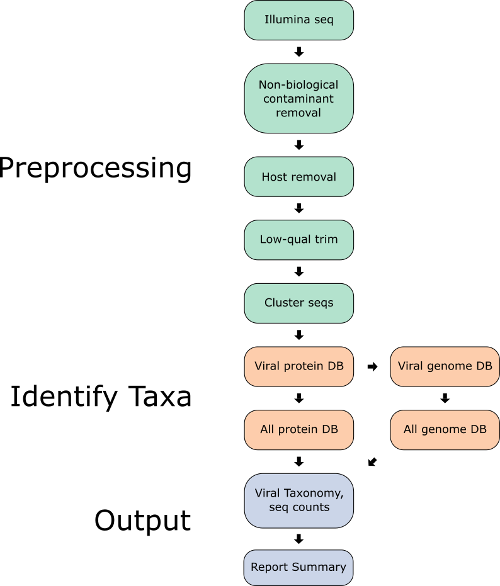
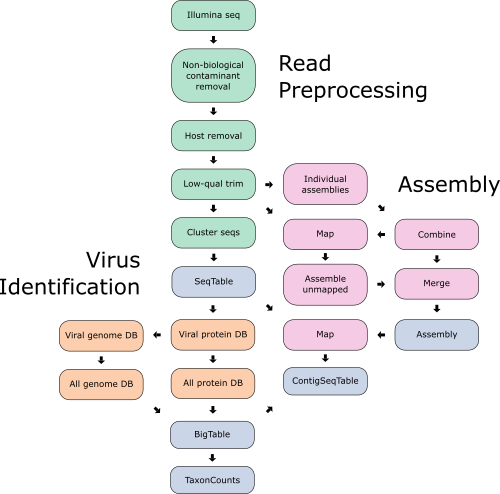
Update documentation, version, automatically generate report after successful hecatomb run.

diff --git a/docs/index.md b/docs/index.md
@@ -27,6 +27,8 @@ viruses in their metagenome samples.
 
 ## Pipeline overview
 
+The pipeline consists of three main sections: Read preprocessing, Virus identification, and Assembly.
+
 ![](img/hecatombPipeline.png)
 
 ### Preprocessing
@@ -86,51 +88,60 @@ First, individual [MEGAHIT](https://github.com/voutcn/megahit) assemblies are pr
 The reads are then mapped to the combined assemblies and any unmapped reads undergo another round of assembly.
 All contigs are then combined and merged into a non-redundant set of contigs.
 
+The assembly contigs are directly annotated with MMSeqs.
+The assembly is also subject to a pseudo consensus annotation approach whereby the SeqTable sequences are mapped and their
+Taxonomic assignments in the BigTable are combined with the read mapping information.
+We find this useful with investigating contigs of interest.
+
 ## File outputs
 
 The pipeline outputs a number of files for further analysis and exploration, as well as to provide an overview of the 
 read preprocessing and distribution.
 
-### report.html
+### Report
+
+`report.html`
 
 This file is generated by Snakemake and outlines a lot of information relating to the Hecatomb run.
 Under the Results tabs are summary files for things like reads for each sample following different preprocessing steps
 as well as some summary plots.
 
-### seqtable.fasta
+### SeqTable
 
-The seqtable (`seqtable.fasta`) is the primary output of the read preprocessing and serves as the input for Taxonomic assignment.
+`hecatomb_out/RESULTS/seqtable.fasta`
+
+The SeqTable is the primary output of the read preprocessing and serves as the input for Taxonomic assignment.
 It is composed of all the representative sequences from the clustered reads for all samples.
 Samples are clustered individually, and the seq IDs for this fasta file follows the format `>sampleID:count:seqNumber`.
 Here, `count` is the number of reads in that cluster which is important for statistical exploration.
 Sequences are numbered sequentially (`seqNumber`) to ensure unique IDs.
 
-### bigtable.tsv
+### BigTable
 
 `hecatomb_out/RESULTS/bigtable.tsv`
 
-The bigtable is the main output of Taxonomic assignment and can be directly imported into R or Python.
-The bigtable combines the seqtable IDs with their sampleID, counts, normalised counts, alignment information, taxonomic assignments and Baltimore classification.
+The BigTable is the main output of Taxonomic assignment and can be directly imported into R or Python.
+The BigTable combines the seqtable IDs with their sampleID, counts, normalised counts, alignment information, taxonomic assignments and Baltimore classification.
 This file is big, hence the name, but is designed to make merging with sample metadata, plotting, and statistical interrogation as easy as possible.
 
-The bigtable header looks like this:
+The header looks like this:
 
 ```
 seqID  sampleID  count  normCount  alnType  targetID  evalue  pident  fident  nident  mismatches  qcov  tcov  qstart  qend  qlen  tstart  tend  tlen  alnlen  bits  targetName  taxMethod  kingdom  phylum  class  order  family  genus  species  baltimoreType  baltimoreGroup
 ```
 
-### taxonLevelCounts.tsv
+### TaxonLevelCounts
 
 `hecatomb_report/taxonLevelCounts.tsv`
 
-This file is derived from the bigtable and summarises the total sequence counts, for each sample, at all taxonomic levels.
-The taxonLevelCounts combines the sampleID with the taxonomic level for which the counts refer, the full taxonomic path, 
+This file is derived from the BigTable and summarises the total sequence counts, for each sample, at all taxonomic levels.
+The TaxonLevelCounts combines the sampleID with the taxonomic level for which the counts refer, the full taxonomic path, 
 the taxon name, and the total and normalised read counts.
-The purpose of this file is to expidite statistical interrogation of your data.
+The purpose of this file is to expedite statistical interrogation of your data.
 For instance, if you wanted to compare the numbers of say Flaviviridae reads between two groups of samples, 
 those counts have already been collected, and you can simply run your analysis and plotting on the relevant slice of the table.  
 
-The taxonLevelCounts file looks something like this:
+The file looks something like this:
 
 ```
 sampleID    taxonLevel  taxonPath                                   taxonName       count   normCount
@@ -140,38 +151,42 @@ sample1     class       K_Viruses,p_Uroviricota,c_Caudoviricetes    Caudoviricet
 etc.
 ```
 
-### assembly.fasta
+### Assembly
 
 `hecatomb_out/RESULTS/assembly.fasta`
 
 These are the contigs generated when running Hecatomb with the `--assembly` flag.
-The assembly is used for producing the contigSeqTable and contigKrona plots, as well as the direct contig annotations.
+The assembly is used for producing the ContigSeqTable and ContigKrona plots, as well as the direct contig annotations.
 
 ### CONTIG ANNOTATIONS
 
 TODO
 
-### contigSeqTable.tsv
+### ContigSeqTable
 
 `hecatomb_out/RESULTS/contigSeqTable.tsv`
 
-The contigSeqTable combines the read mapping information for the assembly with the read-based taxonomic assignments.
+The ContigSeqTable combines the read mapping information for the assembly with the read-based taxonomic assignments.
 This file is intended to assist the user in identifying and binning assembly contigs by applying a consensus approach to contig taxonomic assignment.
 The file includes the positional mapping information and can also enable investigation of more complex features such as 
 chimeric contigs, recombination or horizontal transfer events.
 
-The contigSeqTable header looks like this:
+The header looks like this:
 
 ```
 contigID  seqID  start  stop  len  qual  count  normCount  alnType  taxMethod  kingdom  phylum  class  order  family  genus  species  baltimoreType  baltimoreGroup
 ```
 
-### Sankey.svg
+### Sankey
 
 `hecatomb_report/Sankey.svg`
 
-The sankey diagram shows the sorting of reads through the preprocessing and read-based taxonomic assignment steps.
-It serves to visualise the read filtering and distribution of taxonomic assignment methods.
+The sankey diagram shows the fate of all reads throughout the preprocessing and read-based taxonomic assignment steps.
+It serves to visualise the read filtering and distribution of taxonomic assignment methods and give you an overall impression of how well things went.
+The sankey diagram produced for the test dataset is shown below. 
+This dataset is relatively rich in viral sequences and yet the majority of reads are either filtered or non-viral (that we know of).
+
+[![](img/Sankey.svg)](img/Sankey.svg)
 
 ### krona.html and contigKrona.html
 

diff --git a/docs/install.md b/docs/install.md
@@ -16,35 +16,25 @@ As such it is highly recommended to run Hecatomb on a HPC cluster.
 
 Hecatomb was developed as a set of [Snakemake](https://snakemake.readthedocs.io/en/stable/#) workflows, which are 
 controlled by a python launcher for your convenience.
-While the pipeline utilises a number of other programs and tools to run, you only need to install a couple of 
-dependencies and Snakemake will take care of the rest.
+While the pipeline utilises a number of other programs and tools to run, these are all managed by the pipeline using 
+[conda](https://docs.conda.io/en/latest/) and [mamba](https://github.com/mamba-org/mamba).
 
-Hecatomb relies on [conda](https://docs.conda.io/en/latest/) to ensure portability and ease of installation. 
-The only other dependencies you will need to install are [Snakemake](https://snakemake.readthedocs.io/en/stable/#), 
-[conda](https://docs.conda.io/en/latest/), and the python packages [pysam](https://pysam.readthedocs.io/en/latest/api.html)
-and [plotly](https://plotly.com/python/).
-We also highly recommend you use [mamba](https://github.com/mamba-org/mamba) as it is _a lot_ faster than the base conda.
-
-After installing conda, install all the other dependencies like so:
+Install Hecatomb via conda:
 
 ```bash
-conda install -c conda-forge -c bioconda snakemake mamba pysam plotly
-```
-
-To install Hecatomb, first download the GitHub repo:
-
-```bash
-git clone https://github.com/shandley/hecatomb.git
-```
-
-Then add or link the launcher to your PATH (e.g. if $HOME/bin is already on your PATH):
-
-```bash
-cd hecatomb/bin
-ln -s $(pwd)/hecatomb $HOME/bin
+# This command will create a new conda env called 'hecatomb' and will install Hecatomb and all of it's dependencies.
+conda create -n hecatomb -c conda-forge -c bioconda -c beardymcjohnface hecatomb
 ```
 
 That's it!
+
+```bash
+# To use Hecatomb, activate your new conda env.
+conda activate hecatomb
+
+# Check that it's installed
+hecatomb -h
+```
 
 ## Advanced customisation
 
@@ -71,6 +61,7 @@ hecatomb install --profile slurm
 
 Hecatomb comes with a test dataset that you can run which will take a few hours to complete.
 The test dataset reads are in `test_data/` in the Hecatomb directory.
+You can find your Hecatomb directory with `which hecatomb`.
 
 ```bash
 # run locally
